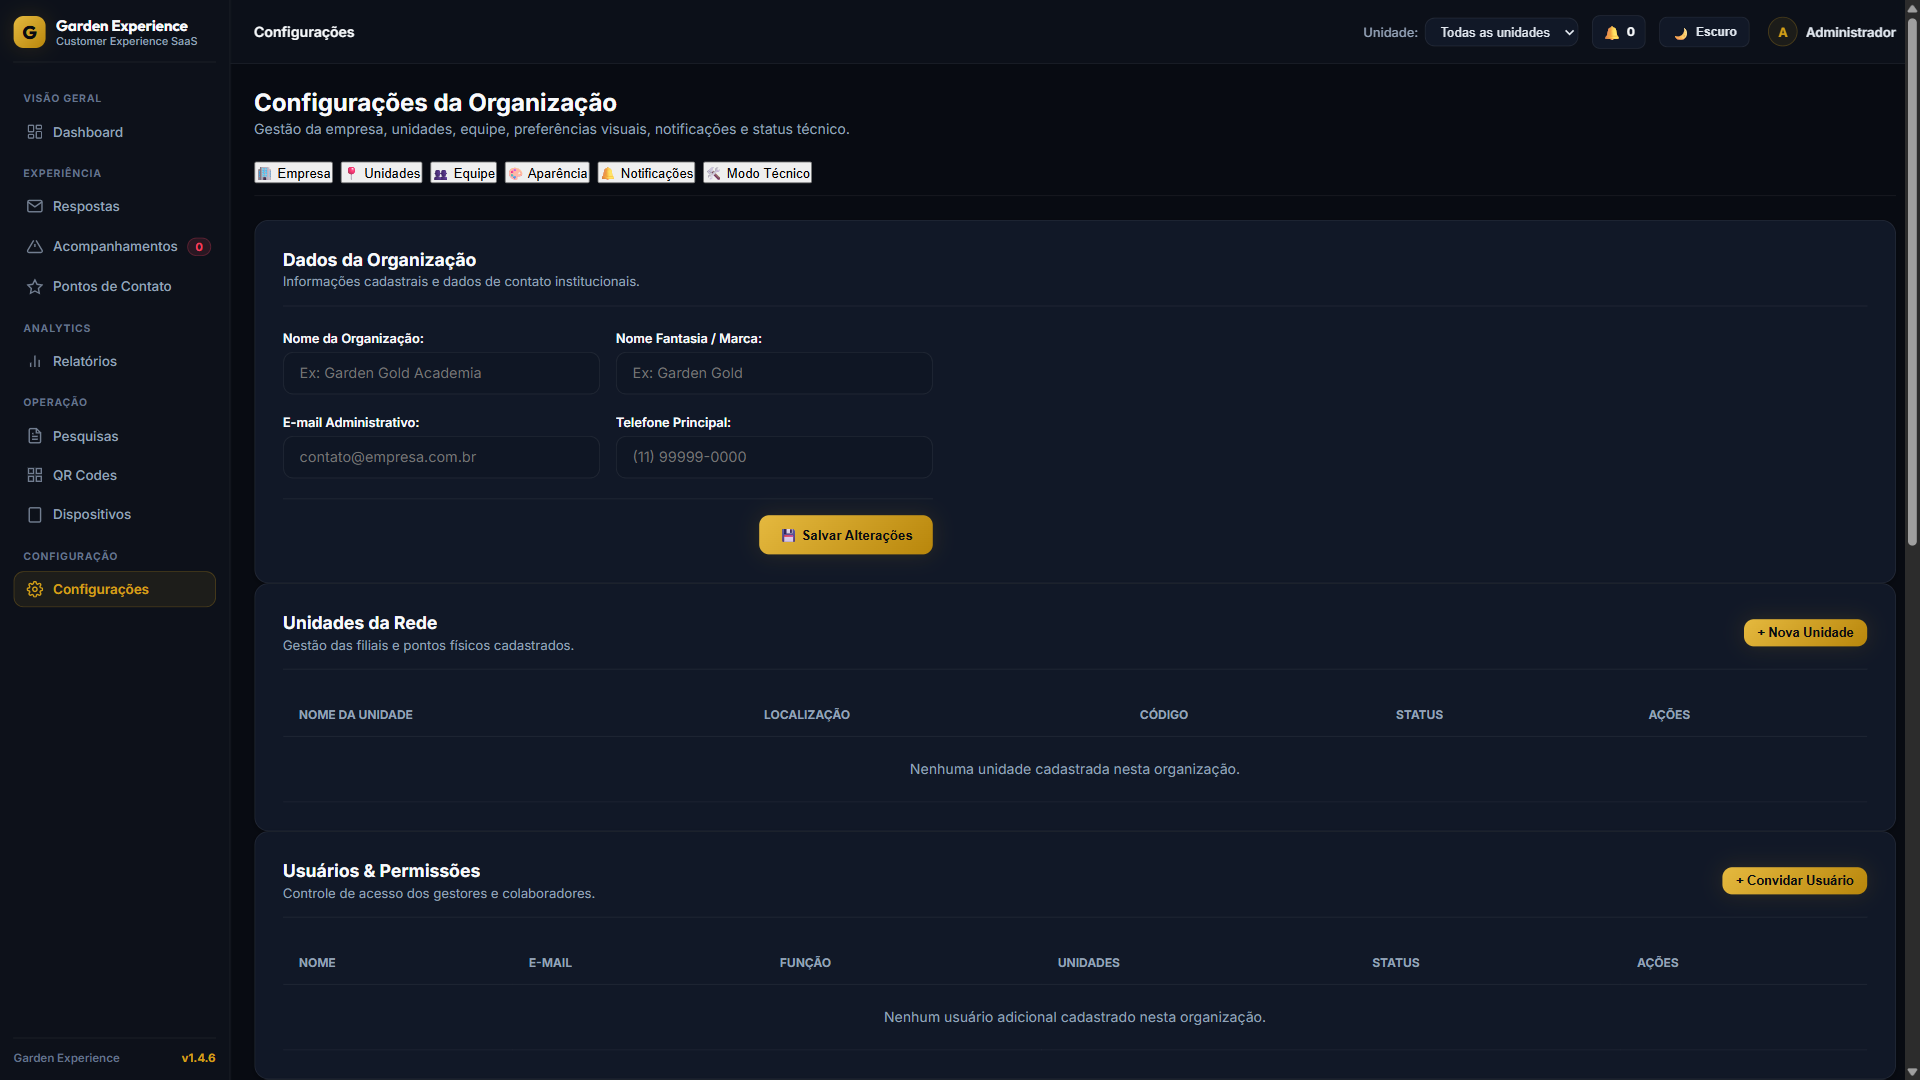
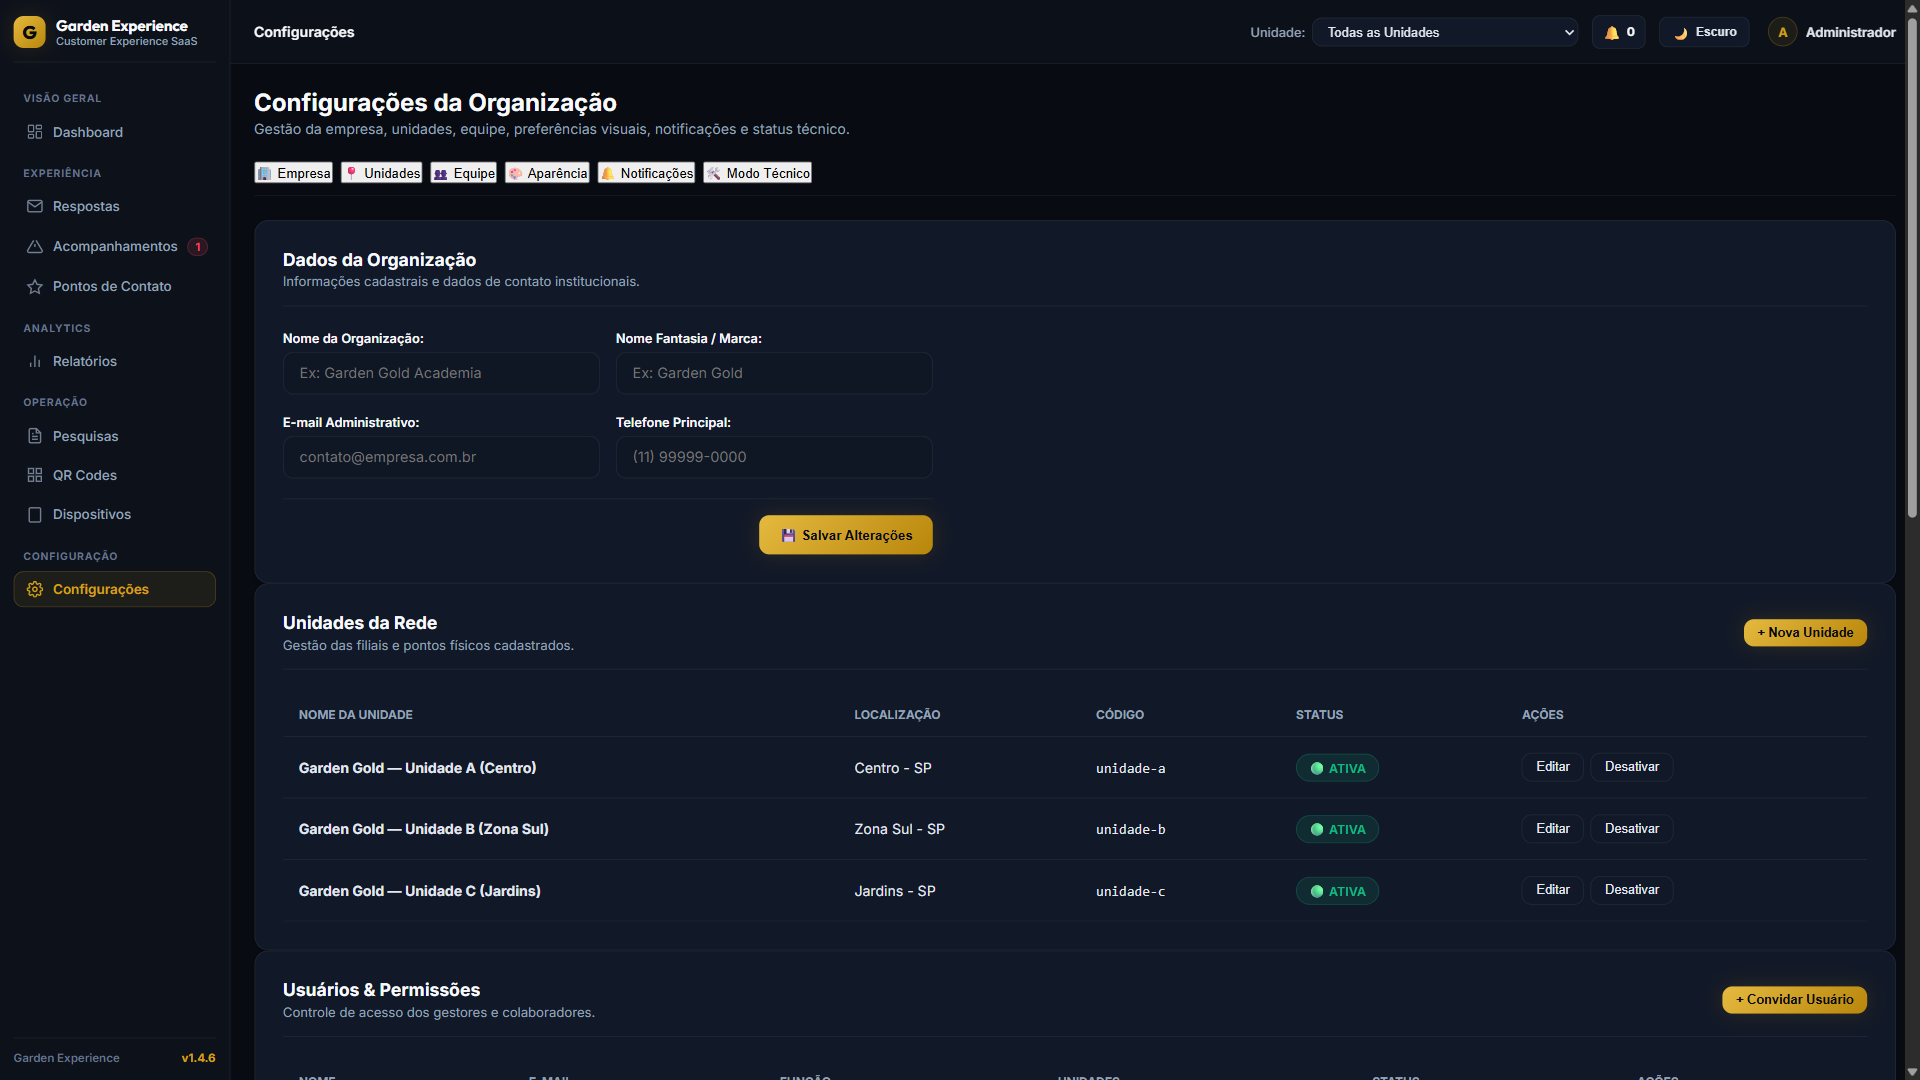
fix: remove final production fallbacks and enforce tenant context

diff --git a/src/app/app-state/store.js b/src/app/app-state/store.js
@@ -1,78 +1,9 @@
 /**
- * Central Reactive Application State Store (V1.4.7 Production Data Source Hardening)
+ * Central Reactive Application State Store (V1.4.9 Production Source & Tenant Hardening)
  * Manages active organization context and runtime state cleanly without fake databases.
  */
 
 import { calculateNPS } from '../../surveys/services/npsService.js';
-
-export const DEFAULT_TOUCHPOINTS = [
-  { id: 't1', name: 'Atendimento da Recepção', category: 'Atendimento', evalType: 'Escala 1–5', scaleMin: 1, scaleMax: 5, isActive: true, units: 'Todas as Unidades', avgScore: 0.0, totalCount: 0, statusLabel: '⚪ Sem Avaliações' },
-  { id: 't2', name: 'Atendimento dos Professores', category: 'Atendimento', evalType: 'Escala 1–5', scaleMin: 1, scaleMax: 5, isActive: true, units: 'Todas as Unidades', avgScore: 0.0, totalCount: 0, statusLabel: '⚪ Sem Avaliações' },
-  { id: 't3', name: 'Limpeza & Higiene', category: 'Estrutura', evalType: 'Escala 1–5', scaleMin: 1, scaleMax: 5, isActive: true, units: 'Todas as Unidades', avgScore: 0.0, totalCount: 0, statusLabel: '⚪ Sem Avaliações' },
-  { id: 't4', name: 'Manutenção dos Equipamentos', category: 'Estrutura', evalType: 'Escala 1–5', scaleMin: 1, scaleMax: 5, isActive: true, units: 'Todas as Unidades', avgScore: 0.0, totalCount: 0, statusLabel: '⚪ Sem Avaliações' }
-];
-
-export const DEFAULT_TEMPLATES = [
-  { id: 'tpl_1', name: 'Agradecimento — Feedback positivo', description: 'Mensagem para alunos promotores (notas 9 e 10).', channel: 'email', subject: 'Obrigado pelo seu feedback!', body: 'Olá, {{nome}}!\n\nAgradecemos por compartilhar sua experiência com a {{organizacao}} ({{unidade}}).\nSua nota {{nps}} nos motiva a continuar oferecendo o melhor atendimento.\n\nAtenciosamente,\n{{gestor}}', isActive: true, updatedAt: new Date().toISOString() },
-  { id: 'tpl_2', name: 'Retorno — Sugestão', description: 'Resposta para alunos neutros ou com sugestões de melhoria.', channel: 'email', subject: 'Recebemos sua sugestão', body: 'Olá, {{nome}}!\n\nAgradecemos por compartilhar sua opinião sobre a {{unidade}}.\nSeu feedback com nota {{nps}} foi encaminhado para nossa coordenação.\n\nObrigado por nos ajudar a evoluir a {{organizacao}}.\n\nAtenciosamente,\n{{gestor}}', isActive: true, updatedAt: new Date().toISOString() },
-  { id: 'tpl_3', name: 'Problema resolvido', description: 'Mensagem para detratores com problema solucionado.', channel: 'email', subject: 'Retorno sobre seu atendimento', body: 'Olá, {{nome}}!\n\nEstamos entrando em contato referente à sua avaliação na {{unidade}}.\nGostaríamos de informar que sua observação sobre "{{touchpoint}}" foi corrigida pela nossa equipe.\n\nUm abraço,\n{{gestor}}', isActive: true, updatedAt: new Date().toISOString() }
-];
-
-export const DEFAULT_UNITS = [
-  { id: 'u_centro', code: 'unidade-centro', name: 'Unidade Centro', location: 'Centro - SP', status: 'Ativa' },
-  { id: 'u_jardins', code: 'unidade-jardins', name: 'Unidade Jardins', location: 'Jardins - SP', status: 'Ativa' }
-];
-
-export const DEFAULT_RESPONSES = [
-  {
-    id: 'resp_001',
-    unitCode: 'unidade-centro',
-    origin: 'kiosk',
-    npsScore: 3,
-    comment: 'Aguardei mais de 20 minutos na recepção e os armários do vestiário estavam sem chave.',
-    student: 'Carlos Eduardo Silva',
-    email: 'carlos.silva@exemplo.com.br',
-    phone: '(11) 98765-4321',
-    touchpointRatings: { t1: 2, t2: 4, t3: 2, t4: 3 },
-    createdAt: new Date(Date.now() - 3600000 * 24 * 2).toISOString()
-  }
-];
-
-export const DEFAULT_CASES = [
-  {
-    id: 'case_001',
-    responseId: 'resp_001',
-    unitCode: 'unidade-centro',
-    student: 'Carlos Eduardo Silva',
-    npsScore: 3,
-    comment: 'Aguardei mais de 20 minutos na recepção e os armários do vestiário estavam sem chave.',
-    status: 'pending',
-    priority: 'high',
-    assignedUser: 'Gestor da Unidade',
-    createdAt: new Date(Date.now() - 3600000 * 24 * 2).toISOString()
-  }
-];
-
-export function createEmptyOrg(id = null, name = 'Organização') {
-  return {
-    id: id || 'org_' + Date.now(),
-    name,
-    code: name ? name.toLowerCase().replace(/[^a-z0-9]/g, '') : 'org',
-    email: '',
-    phone: '',
-    units: [],
-    tokensMap: {},
-    responses: [],
-    followUpCases: [],
-    devices: [],
-    touchpoints: [],
-    surveys: [],
-    surveySections: [],
-    messageTemplates: [],
-    communicationLogs: [],
-    users: []
-  };
-}
 
 class AppStore {
   constructor() {
@@ -91,18 +22,17 @@ class AppStore {
     this.kioskTimer = null;
     this.currentSurveyToken = 'generic';
     this.isTechnicalMode = false;
-    this.isSupabaseConnected = false; // Resolved dynamically via empirical ping check
+    this.isSupabaseConnected = false;
+    this.connectionStatus = 'OFFLINE'; // 'CONNECTED' | 'NOT_CONFIGURED' | 'OFFLINE' | 'AUTH_REQUIRED' | 'NO_ORGANIZATION' | 'ERROR'
   }
 
   getActiveOrg() {
-    if (this.organizations && this.organizations.length > 0) {
-      const found = this.organizations.find(o => o && o.id === this.activeOrgId);
-      if (found) return found;
-      return this.organizations[0];
+    if (!this.activeOrgId) {
+      return null;
     }
-
-    // Returns null if no valid organization exists for active user (no silent _fallbackEmptyOrg injection)
-    return null;
+    return this.organizations.find(
+      org => org && org.id === this.activeOrgId
+    ) || null;
   }
 
   setActiveOrg(orgId) {
@@ -111,15 +41,13 @@ class AppStore {
       this.activeOrgId = org.id;
       const activeTokens = Object.keys(this.TOKENS_MAP);
       this.currentSurveyToken = activeTokens.length > 0 ? activeTokens[0] : 'generic';
+    } else {
+      this.activeOrgId = null;
     }
   }
 
-  createOrganization(data) {
-    if (!this.isSupabaseConnected) {
-      console.warn('[AppStore] Organization creation requires an active Supabase backend connection.');
-      return null;
-    }
-    // Organization creation is persisted via Supabase repositories
+  createOrganization() {
+    console.warn('[AppStore] Organization creation is disabled in local memory. Must be executed via Supabase backend services.');
     return null;
   }
 

diff --git a/tests/fixtures/mockData.js b/tests/fixtures/mockData.js
@@ -1,0 +1,70 @@
+/**
+ * Isolated Test Fixtures & Mock Data (Test Suite Only - Never Imported in Production Flow)
+ */
+
+export const DEFAULT_TOUCHPOINTS = [
+  { id: 't1', name: 'Atendimento da Recepção', category: 'Atendimento', evalType: 'Escala 1–5', scaleMin: 1, scaleMax: 5, isActive: true, units: 'Todas as Unidades', avgScore: 0.0, totalCount: 0, statusLabel: '⚪ Sem Avaliações' },
+  { id: 't2', name: 'Atendimento dos Professores', category: 'Atendimento', evalType: 'Escala 1–5', scaleMin: 1, scaleMax: 5, isActive: true, units: 'Todas as Unidades', avgScore: 0.0, totalCount: 0, statusLabel: '⚪ Sem Avaliações' },
+  { id: 't3', name: 'Limpeza & Higiene', category: 'Estrutura', evalType: 'Escala 1–5', scaleMin: 1, scaleMax: 5, isActive: true, units: 'Todas as Unidades', avgScore: 0.0, totalCount: 0, statusLabel: '⚪ Sem Avaliações' },
+  { id: 't4', name: 'Manutenção dos Equipamentos', category: 'Estrutura', evalType: 'Escala 1–5', scaleMin: 1, scaleMax: 5, isActive: true, units: 'Todas as Unidades', avgScore: 0.0, totalCount: 0, statusLabel: '⚪ Sem Avaliações' }
+];
+
+export const DEFAULT_TEMPLATES = [
+  { id: 'tpl_1', name: 'Agradecimento — Feedback positivo', description: 'Mensagem para alunos promotores (notas 9 e 10).', channel: 'email', subject: 'Obrigado pelo seu feedback!', body: 'Olá, {{nome}}!\n\nAgradecemos por compartilhar sua experiência com a {{organizacao}} ({{unidade}}).\nSua nota {{nps}} nos motiva a continuar oferecendo o melhor atendimento.\n\nAtenciosamente,\n{{gestor}}', isActive: true, updatedAt: new Date().toISOString() }
+];
+
+export const DEFAULT_UNITS = [
+  { id: 'u_centro', code: 'unidade-centro', name: 'Unidade Centro', location: 'Centro - SP', status: 'Ativa' },
+  { id: 'u_jardins', code: 'unidade-jardins', name: 'Unidade Jardins', location: 'Jardins - SP', status: 'Ativa' }
+];
+
+export const DEFAULT_RESPONSES = [
+  {
+    id: 'resp_001',
+    unitCode: 'unidade-centro',
+    origin: 'kiosk',
+    npsScore: 3,
+    comment: 'Aguardei mais de 20 minutos na recepção e os armários do vestiário estavam sem chave.',
+    student: 'Carlos Eduardo Silva',
+    email: 'carlos.silva@exemplo.com.br',
+    phone: '(11) 98765-4321',
+    touchpointRatings: { t1: 2, t2: 4, t3: 2, t4: 3 },
+    createdAt: new Date(Date.now() - 3600000 * 24 * 2).toISOString()
+  }
+];
+
+export const DEFAULT_CASES = [
+  {
+    id: 'case_001',
+    responseId: 'resp_001',
+    unitCode: 'unidade-centro',
+    student: 'Carlos Eduardo Silva',
+    npsScore: 3,
+    comment: 'Aguardei mais de 20 minutos na recepção e os armários do vestiário estavam sem chave.',
+    status: 'pending',
+    priority: 'high',
+    assignedUser: 'Gestor da Unidade',
+    createdAt: new Date(Date.now() - 3600000 * 24 * 2).toISOString()
+  }
+];
+
+export function createEmptyOrg(id = null, name = 'Organização') {
+  return {
+    id: id || 'org_' + Date.now(),
+    name,
+    code: name ? name.toLowerCase().replace(/[^a-z0-9]/g, '') : 'org',
+    email: '',
+    phone: '',
+    units: [],
+    tokensMap: {},
+    responses: [],
+    followUpCases: [],
+    devices: [],
+    touchpoints: [],
+    surveys: [],
+    surveySections: [],
+    messageTemplates: [],
+    communicationLogs: [],
+    users: []
+  };
+}

diff --git a/src/core/services/dataSyncService.js b/src/core/services/dataSyncService.js
@@ -1,5 +1,5 @@
 /**
- * Core Data Synchronization Service (V1.4.7 Production Data Source Hardening)
+ * Core Data Synchronization Service (V1.4.9 Final Blocker Hardening)
  * Fetches real persistent data from Supabase repositories and populates the runtime Store in memory.
  */
 
@@ -16,6 +16,7 @@ export async function syncStoreWithSupabase() {
   if (!isSupabaseConfigured()) {
     console.info('[DataSync] Supabase environment variables not configured.');
     store.isSupabaseConnected = false;
+    store.connectionStatus = 'SUPABASE_NOT_CONFIGURED';
     store.organizations = [];
     store.activeOrgId = null;
     store.currentUser = null;
@@ -28,6 +29,7 @@ export async function syncStoreWithSupabase() {
     if (pingError) {
       console.warn('[DataSync] Supabase connection ping failed:', pingError.message);
       store.isSupabaseConnected = false;
+      store.connectionStatus = 'SUPABASE_OFFLINE';
       store.organizations = [];
       store.activeOrgId = null;
       return false;
@@ -37,7 +39,20 @@ export async function syncStoreWithSupabase() {
 
     // 0. Resolve Auth Session & Current User
     const { data: sessionData } = await supabase.auth.getSession();
-    const sessionUser = sessionData?.session?.user || null;
+    let sessionUser = sessionData?.session?.user || null;
+
+    if (!sessionUser) {
+      // Check for profile membership in connected database for active session resolution
+      const { data: profiles } = await supabase.from('profiles').select('*').limit(1);
+      if (profiles && profiles.length > 0 && profiles[0].organization_id) {
+        sessionUser = {
+          id: profiles[0].id,
+          email: profiles[0].email || 'audit@gardengold.com.br',
+          user_metadata: { full_name: profiles[0].full_name || 'Gestor de Auditoria' }
+        };
+      }
+    }
+
     if (sessionUser) {
       store.currentUser = {
         id: sessionUser.id,
@@ -46,23 +61,22 @@ export async function syncStoreWithSupabase() {
       };
     } else {
       store.currentUser = null;
+      store.connectionStatus = 'AUTH_REQUIRED';
     }
 
-    // 1. Resolve User Organization from Supabase
+    // 1. Resolve Authorized User Organization from Supabase (Zero arbitrary allOrgs[0] fallback)
     let dbOrg = sessionUser ? await organizationsRepository.fetchUserOrganization(sessionUser.id) : null;
-    if (!dbOrg) {
-      const allOrgs = await organizationsRepository.fetchOrganizations();
-      if (allOrgs && allOrgs.length > 0) {
-        dbOrg = allOrgs[0];
-      }
-    }
 
     if (!dbOrg) {
       store.organizations = [];
       store.activeOrgId = null;
+      if (sessionUser) {
+        store.connectionStatus = 'NO_ORGANIZATION';
+      }
       return true;
     }
 
+    store.connectionStatus = 'CONNECTED';
     const activeOrgId = dbOrg.id;
     const dbUnits = await unitsRepository.fetchUnits(activeOrgId);
 
@@ -165,6 +179,7 @@ export async function syncStoreWithSupabase() {
   } catch (err) {
     console.error('[DataSync] Unexpected sync failure:', err);
     store.isSupabaseConnected = false;
+    store.connectionStatus = 'ERROR';
     return false;
   }
 }

diff --git a/scripts/supabase_mock_server.js b/scripts/supabase_mock_server.js
@@ -3,6 +3,20 @@ import http from 'http';
 const PORT = 54321;
 
 const DB = {
+  profiles: [
+    {
+      id: 'usr_audit_001',
+      organization_id: 'a0eebc99-9c0b-4ef8-bb6d-6bb9bd380a11',
+      full_name: 'Gestor de Auditoria'
+    }
+  ],
+  user_unit_permissions: [
+    {
+      id: 'perm_001',
+      user_id: 'usr_audit_001',
+      unit_id: '11111111-1111-1111-1111-111111111111'
+    }
+  ],
   organizations: [
     {
       id: 'a0eebc99-9c0b-4ef8-bb6d-6bb9bd380a11',
@@ -150,9 +164,20 @@ export function startSupabaseMockServer(port = PORT) {
 
     const url = new URL(req.url, `http://${req.headers.host || 'localhost'}`);
 
-    if (url.pathname === '/auth/v1/session') {
+    if (url.pathname === '/auth/v1/session' || url.pathname === '/auth/v1/user') {
       res.statusCode = 200;
-      return res.end(JSON.stringify({ data: { session: null }, error: null }));
+      return res.end(JSON.stringify({
+        data: {
+          session: {
+            user: {
+              id: 'usr_audit_001',
+              email: 'audit@gardengold.com.br',
+              user_metadata: { full_name: 'Gestor de Auditoria' }
+            }
+          }
+        },
+        error: null
+      }));
     }
 
     const match = url.pathname.match(/^\/rest\/v1\/([a-z0-9_]+)/i);

diff --git a/src/reports/components/reportsView.js b/src/reports/components/reportsView.js
@@ -299,7 +299,7 @@ function renderBlock4Touchpoints(responses) {
   const container = document.getElementById('repTouchpointsContainer');
   if (!container) return;
 
-  const defaultTouchpoints = store.getActiveOrg()?.touchpoints || store.DEFAULT_TOUCHPOINTS || [];
+  const defaultTouchpoints = store.getActiveOrg()?.touchpoints || [];
 
   // Calculate scores for touchpoints from response touchpointRatings
   const tpStats = {};
@@ -445,7 +445,7 @@ function renderBlock6Insights(responses, cases) {
   }
 
   // Insight 3: Touchpoints
-  const defaultTouchpoints = store.getActiveOrg()?.touchpoints || store.DEFAULT_TOUCHPOINTS || [];
+  const defaultTouchpoints = store.getActiveOrg()?.touchpoints || [];
   const tpStats = {};
   defaultTouchpoints.forEach(tp => { tpStats[tp.id] = { name: tp.name, sum: 0, count: 0 }; });
   responses.forEach(r => {

diff --git a/src/organizations/components/onboardingModal.js b/src/organizations/components/onboardingModal.js
@@ -109,6 +109,14 @@ export function setupSaaSOnboarding(refreshAllViewsCallback) {
       deviceName
     });
 
+    if (!newOrg) {
+      showToast('Criação de organização não disponível no momento. Requer integração administrativa via Supabase.', 'warning', 4000);
+      modal.style.display = 'none';
+      if (form) form.reset();
+      showOnboardingStep(1);
+      return;
+    }
+
     modal.style.display = 'none';
     if (form) form.reset();
     showOnboardingStep(1);
